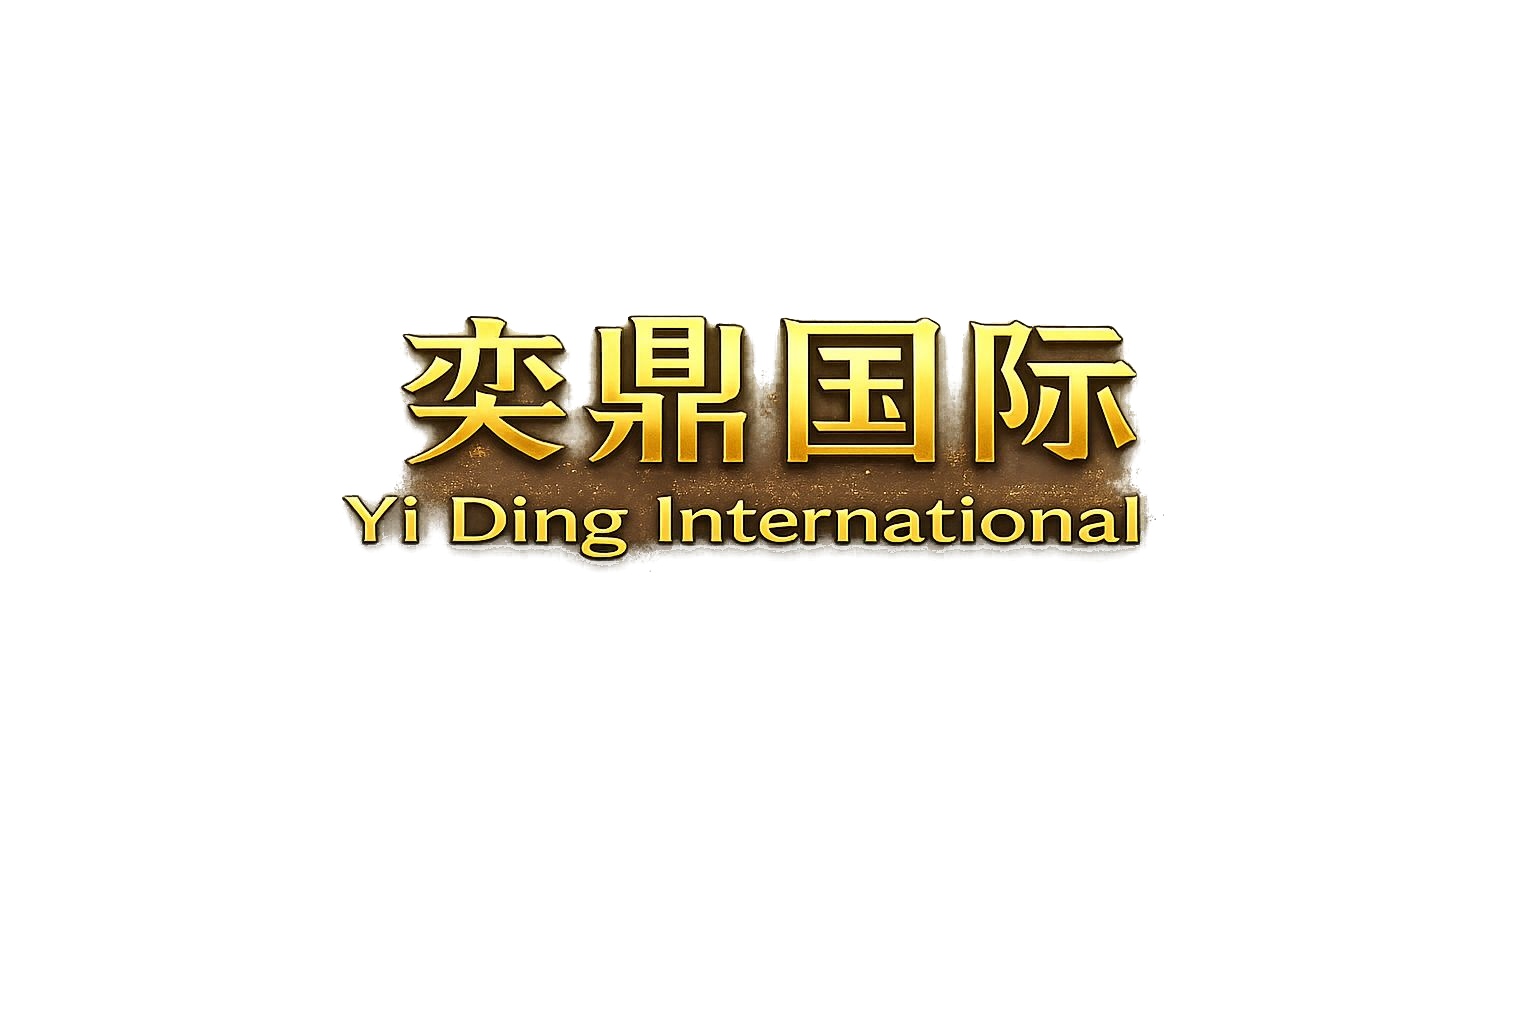
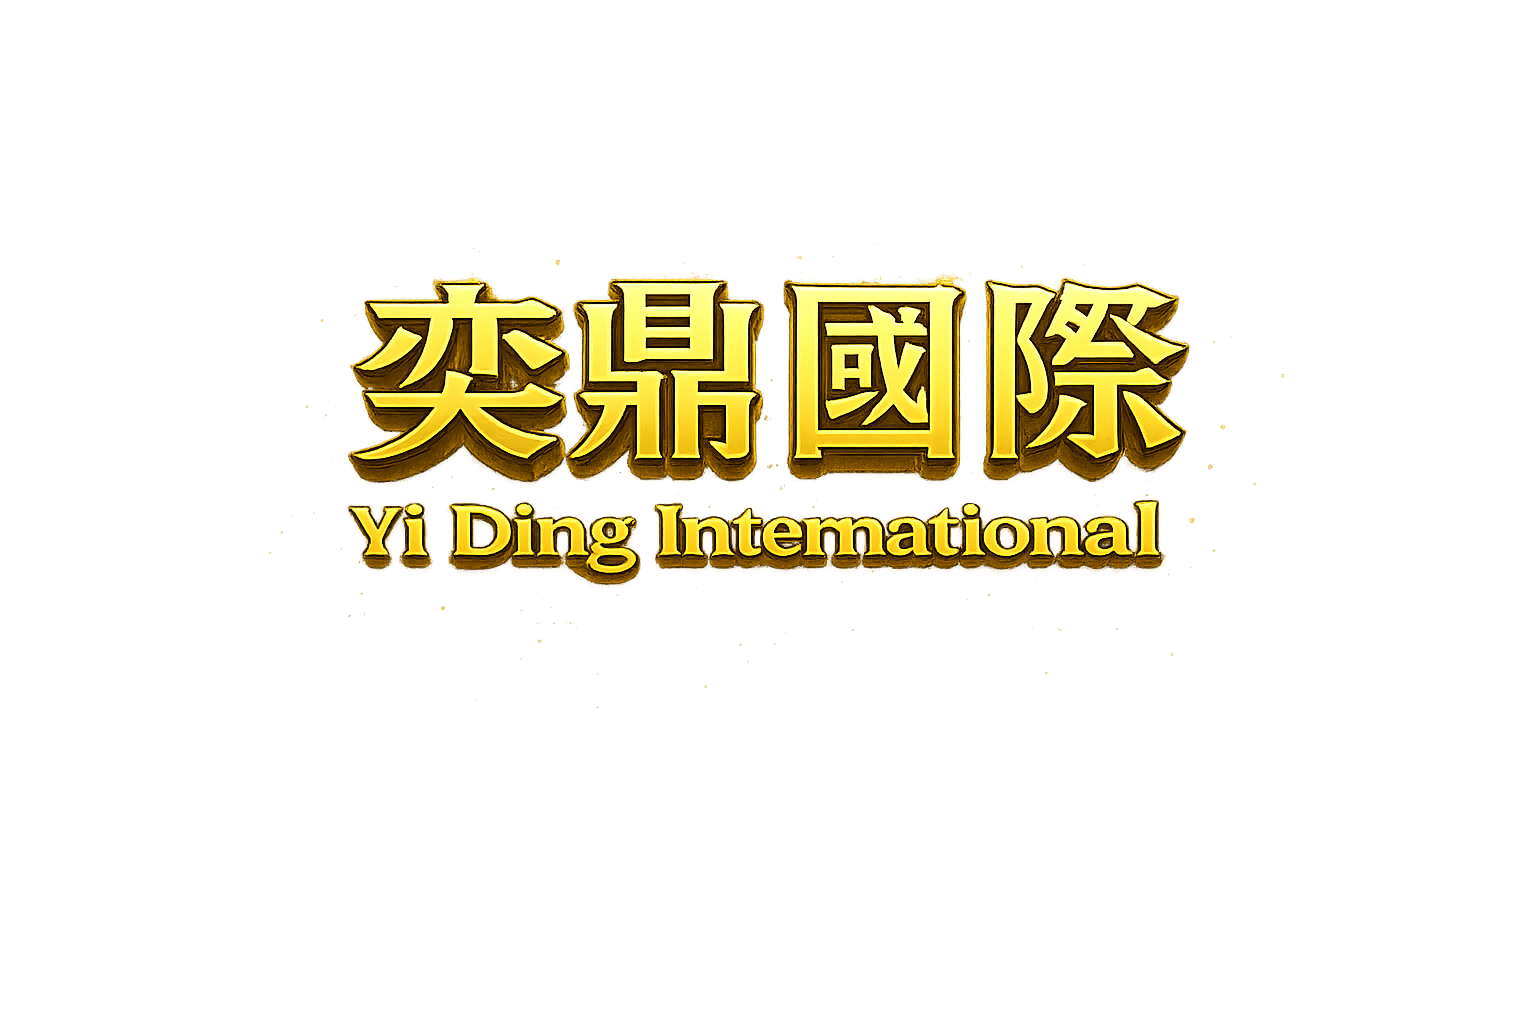
feat: enlarge production login panel

Changed region(s): [[0.2188, 0.25, 0.7812, 0.5938]]

diff --git a/assets/css/login.css b/assets/css/login.css
@@ -60,7 +60,7 @@
 .login-layout {
   min-height: 100%;
   display: grid;
-  grid-template-columns: minmax(0, 1.08fr) minmax(430px, 0.9fr);
+  grid-template-columns: minmax(0, 1.02fr) minmax(560px, 0.98fr);
 }
 
 .login-visual {
@@ -182,7 +182,7 @@
   z-index: 3;
   left: 50%;
   top: 42%;
-  width: min(416px, 49%);
+  width: min(468px, 56%);
   transform: translate(-50%, -50%);
   filter:
     drop-shadow(0 18px 42px rgba(0, 0, 0, 0.36))
@@ -230,12 +230,13 @@
   display: flex;
   align-items: center;
   justify-content: center;
-  padding: 28px 26px;
+  padding: 18px 18px 18px 22px;
 }
 
 .login-panel__inner {
-  width: min(100%, 600px);
-  padding: 30px 32px 24px;
+  width: min(100%, 720px);
+  min-height: 642px;
+  padding: 40px 44px 34px;
   border-radius: 32px;
   border: 1px solid rgba(236, 194, 102, 0.12);
   background:
@@ -252,13 +253,13 @@
   display: flex;
   align-items: center;
   justify-content: center;
-  margin-bottom: 18px;
+  margin-bottom: 26px;
 }
 
 .login-panel__brand-lockup {
   position: relative;
-  width: min(100%, 380px);
-  height: clamp(82px, 8vw, 96px);
+  width: min(100%, 470px);
+  height: clamp(112px, 10vw, 136px);
   overflow: hidden;
 }
 
@@ -270,7 +271,7 @@
   width: 100%;
   height: auto;
   object-fit: contain;
-  transform: translateY(-31%);
+  transform: translateY(-22%);
   filter:
     brightness(1.04)
     contrast(1.04)
@@ -282,7 +283,7 @@
   margin-top: 0;
   display: flex;
   flex-direction: column;
-  gap: 18px;
+  gap: 22px;
 }
 
 .login-field {
@@ -337,13 +338,13 @@
 
 .login-input {
   width: 100%;
-  height: 74px;
+  height: 80px;
   padding: 0 24px 0 60px;
-  border-radius: 22px;
+  border-radius: 24px;
   border: 1px solid rgba(236, 194, 102, 0.22);
   background: rgba(14, 10, 18, 0.16);
   color: #f5ead7;
-  font-size: 29px;
+  font-size: 31px;
   font-weight: 500;
   outline: none;
   transition: border-color 0.2s ease, background 0.2s ease, box-shadow 0.2s ease;
@@ -363,14 +364,14 @@
 }
 
 .login-submit {
-  margin-top: 4px;
-  height: 78px;
+  margin-top: 8px;
+  height: 84px;
   border: 0;
-  border-radius: 22px;
+  border-radius: 24px;
   background: linear-gradient(135deg, #f8de88 0%, #efc350 55%, #ca8f2e 100%);
   color: #1f1309;
   font-family: "Noto Serif TC", "Microsoft JhengHei", "PingFang TC", serif;
-  font-size: clamp(31px, 2.2vw, 40px);
+  font-size: clamp(33px, 2.4vw, 42px);
   font-weight: 700;
   letter-spacing: 0.12em;
   box-shadow:
@@ -419,7 +420,7 @@
 
 @media (max-width: 1240px) {
   .login-layout {
-    grid-template-columns: minmax(0, 1fr) minmax(410px, 0.92fr);
+    grid-template-columns: minmax(0, 1fr) minmax(480px, 0.98fr);
   }
 
   .login-visual {
@@ -442,20 +443,23 @@
   }
 
   .login-panel__inner {
-    padding: 28px 24px 22px;
+    width: min(100%, 660px);
+    min-height: 596px;
+    padding: 34px 30px 28px;
   }
 
   .login-panel__brand-lockup {
-    width: min(100%, 320px);
+    width: min(100%, 420px);
+    height: 120px;
   }
 
   .login-input {
-    font-size: 24px;
+    font-size: 27px;
   }
 
   .login-submit {
-    height: 74px;
-    font-size: 32px;
+    height: 78px;
+    font-size: 34px;
   }
 }
 
@@ -485,7 +489,7 @@
   }
 
   .login-visual__mark {
-    width: min(240px, 40%);
+    width: min(272px, 46%);
   }
 
   .login-visual__dragon-orbit {
@@ -504,7 +508,8 @@
 
   .login-panel__inner {
     width: 100%;
-    padding: 24px 18px 18px;
+    min-height: auto;
+    padding: 28px 18px 20px;
     border-radius: 24px;
   }
 
@@ -513,7 +518,8 @@
   }
 
   .login-panel__brand-lockup {
-    width: min(100%, 260px);
+    width: min(100%, 300px);
+    height: 92px;
   }
 
   .login-form {

diff --git a/index.html b/index.html
@@ -25,7 +25,7 @@
                 <span class="login-orbit__ring login-orbit__ring--outer"></span>
                 <span class="login-orbit__ring login-orbit__ring--inner"></span>
                 <span class="login-orbit__sun"></span>
-                <img src="image/logo.png" alt="" class="login-visual__mark" />
+                <img src="image/logo3d.png" alt="" class="login-visual__mark" />
                 <div class="login-visual__dragon-orbit">
                   <img src="image/login-dragon-cutout.png" alt="" class="login-visual__dragon" />
                 </div>
